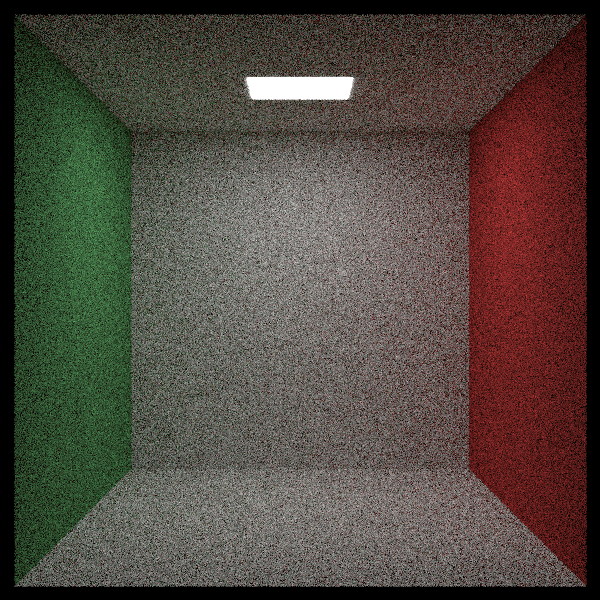
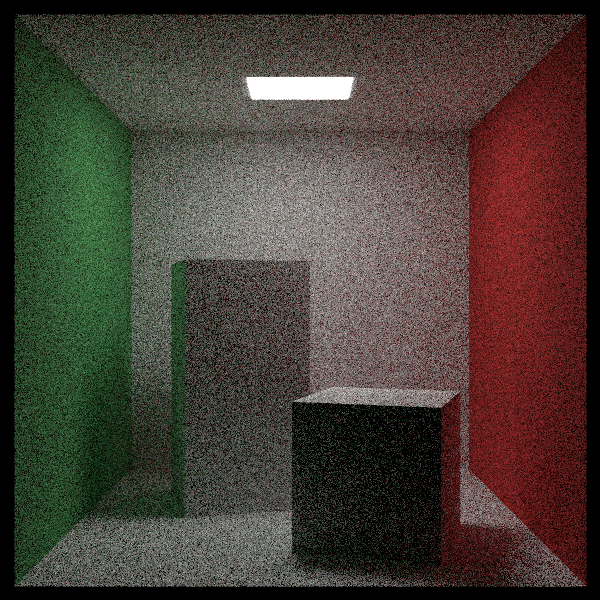
add transform

diff --git a/src/hittable/transform.rs b/src/hittable/transform.rs
@@ -1,0 +1,75 @@
+use super::{bvh::Aabb, HitPayload, Hittable, Range};
+use crate::ray::Ray;
+use cgmath::{prelude::*, Point3, Quaternion, Vector3};
+use std::sync::Arc;
+
+pub struct Transform {
+    translation: Vector3<f64>,
+    rotation: Quaternion<f64>,
+    object: Arc<dyn Hittable + Send + Sync>,
+}
+
+impl Hittable for Transform {
+    fn hit(&self, ray: &Ray, range: Range<f64>) -> Option<HitPayload> {
+        let inverse_rot = self.rotation.invert();
+        let origin = inverse_rot.rotate_point(ray.origin - self.translation);
+        let direction = inverse_rot.rotate_vector(ray.direction);
+
+        let equivalent_ray = Ray { origin, direction };
+
+        if let Some(mut payload) = self.object.hit(&equivalent_ray, range) {
+            payload.point = self.rotation.rotate_point(payload.point) + self.translation;
+            payload.normal = self.rotation.rotate_vector(payload.normal);
+
+            Some(payload)
+        } else {
+            None
+        }
+    }
+
+    fn bounding_box(&self) -> Aabb {
+        let aabb = self.object.bounding_box();
+        let factor = [-1., 1.];
+
+        let mut minimum = Point3::from([std::f64::INFINITY; 3]);
+        let mut maximum = Point3::from([std::f64::NEG_INFINITY; 3]);
+        for i in factor {
+            for j in factor {
+                for k in factor {
+                    let point = aabb.center
+                        + Vector3::new(
+                            i * aabb.half_extents.x,
+                            j * aabb.half_extents.y,
+                            k * aabb.half_extents.z,
+                        );
+                    let point = self.rotation.rotate_point(point) + self.translation;
+
+                    minimum.x = minimum.x.min(point.x);
+                    minimum.y = minimum.y.min(point.y);
+                    minimum.z = minimum.z.min(point.z);
+
+                    maximum.x = maximum.x.max(point.x);
+                    maximum.y = maximum.y.max(point.y);
+                    maximum.z = maximum.z.max(point.z);
+                }
+            }
+        }
+
+        Aabb::from_min_max(minimum, maximum)
+    }
+}
+
+impl Transform {
+    #[allow(private_bounds)]
+    pub fn new<H: Hittable + Send + Sync + 'static>(
+        object: Arc<H>,
+        translation: Vector3<f64>,
+        rotation: Quaternion<f64>,
+    ) -> Arc<Self> {
+        Arc::new(Self {
+            translation,
+            rotation,
+            object,
+        })
+    }
+}

diff --git a/src/hittable/quad.rs b/src/hittable/quad.rs
@@ -1,4 +1,4 @@
-use super::{bvh::Aabb, HitPayload, Hittable};
+use super::{bvh::Aabb, HitPayload, Hittable, HittableList, Range};
 use crate::{material::Material, ray::Ray};
 use cgmath::{prelude::*, Point3, Vector3};
 use std::sync::Arc;
@@ -14,7 +14,7 @@ pub struct Quad {
 }
 
 impl Hittable for Quad {
-    fn hit(&self, ray: &Ray, range: std::ops::Range<f64>) -> Option<HitPayload> {
+    fn hit(&self, ray: &Ray, range: Range<f64>) -> Option<HitPayload> {
         let s = ray.origin - self.q;
         let s1 = ray.direction.cross(self.v);
         let s2 = s.cross(self.u);
@@ -74,5 +74,55 @@ impl Quad {
 
             material,
         })
+    }
+
+    pub fn cuboid(a: Point3<f64>, b: Point3<f64>, material: Material) -> Arc<HittableList> {
+        let mut sides = HittableList::new();
+
+        let min = Point3::new(a.x.min(b.x), a.y.min(b.y), a.z.min(b.z));
+        let max = Point3::new(a.x.max(b.x), a.y.max(b.y), a.z.max(b.z));
+
+        let dx = Vector3::new(max.x - min.x, 0., 0.);
+        let dy = Vector3::new(0., max.y - min.y, 0.);
+        let dz = Vector3::new(0., 0., max.z - min.z);
+
+        sides.push(Quad::new(
+            Point3::new(min.x, min.y, max.z),
+            dx,
+            dy,
+            material.clone(),
+        )); // front
+        sides.push(Quad::new(
+            Point3::new(max.x, min.y, max.z),
+            -dz,
+            dy,
+            material.clone(),
+        )); // right
+        sides.push(Quad::new(
+            Point3::new(max.x, min.y, min.z),
+            -dx,
+            dy,
+            material.clone(),
+        )); // back
+        sides.push(Quad::new(
+            Point3::new(min.x, min.y, min.z),
+            dz,
+            dy,
+            material.clone(),
+        )); // left
+        sides.push(Quad::new(
+            Point3::new(min.x, max.y, max.z),
+            dx,
+            -dz,
+            material.clone(),
+        )); // top
+        sides.push(Quad::new(
+            Point3::new(min.x, min.y, min.z),
+            dx,
+            dz,
+            material.clone(),
+        )); // bottom
+
+        Arc::new(sides)
     }
 }

diff --git a/examples/cornell-box.rs b/examples/cornell-box.rs
@@ -1,8 +1,8 @@
 use pbr::{
     camera::CameraBuilder,
-    hittable::{Bvh, HittableList, Quad},
+    hittable::{Bvh, HittableList, Quad, Transform},
     material::Material,
-    math::{prelude::*, Point3, Vector3},
+    math::{prelude::*, Deg, Point3, Quaternion, Vector3},
     Color,
 };
 
@@ -48,7 +48,26 @@ fn main() {
         Point3::new(0., 0., 555.),
         Vector3::new(555., 0., 0.),
         Vector3::new(0., 555., 0.),
-        white,
+        white.clone(),
+    ));
+
+    world.push(Transform::new(
+        Quad::cuboid(
+            Point3::new(0., 0., 0.),
+            Point3::new(165., 330., 165.),
+            white.clone(),
+        ),
+        Vector3::new(265., 0., 295.),
+        Quaternion::from_angle_y(Deg(15.)),
+    ));
+    world.push(Transform::new(
+        Quad::cuboid(
+            Point3::new(0., 0., 0.),
+            Point3::new(165., 165., 165.),
+            white,
+        ),
+        Vector3::new(130., 0., 65.),
+        Quaternion::from_angle_y(Deg(-18.)),
     ));
 
     let camera = CameraBuilder::default()

diff --git a/src/hittable/mod.rs b/src/hittable/mod.rs
@@ -6,10 +6,12 @@ use std::sync::Arc;
 mod bvh;
 mod quad;
 mod shpere;
+mod transform;
 
 pub use bvh::Bvh;
 pub use quad::Quad;
 pub use shpere::Sphere;
+pub use transform::Transform;
 
 use bvh::Aabb;
 
